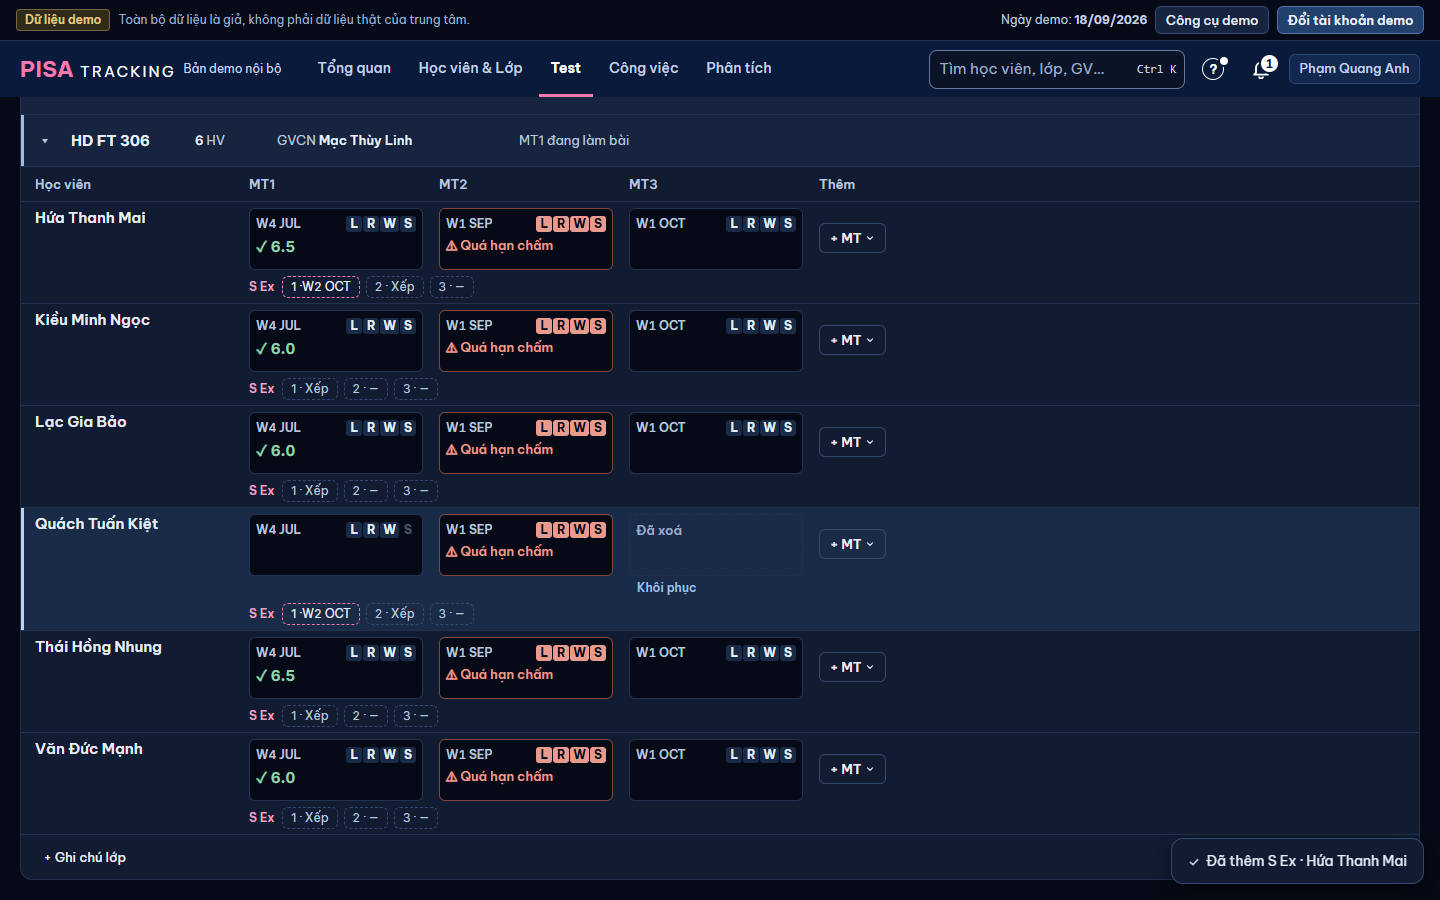
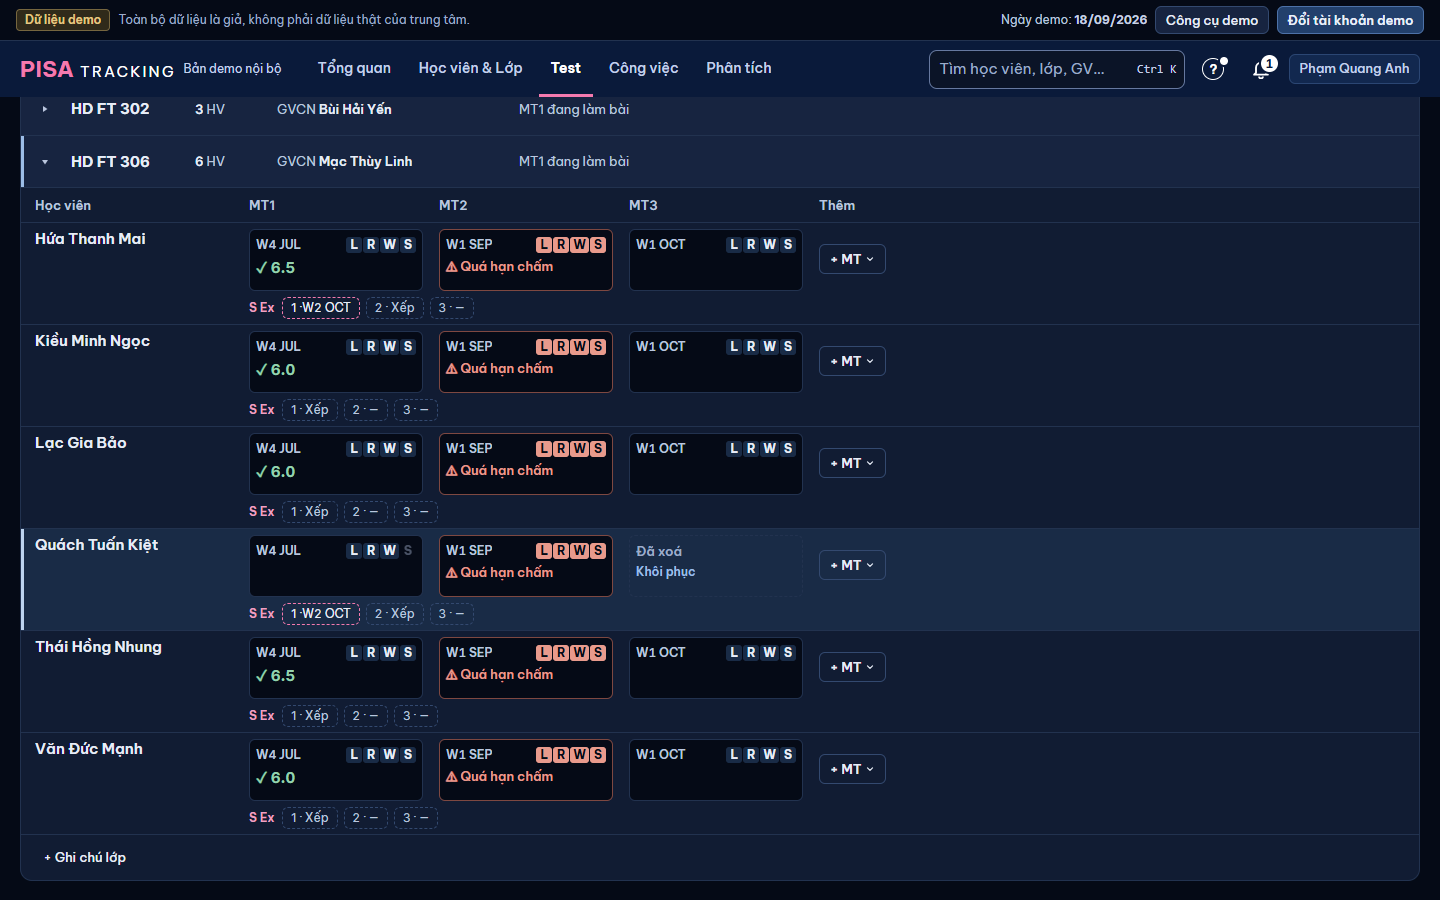
SEX-HANG b: "Khôi phục" nằm trong khung ô MT "Đã xoá" (PTA rà #1078)

diff --git a/web/src/modules/test/keHoach/ChipKyNang.tsx b/web/src/modules/test/keHoach/ChipKyNang.tsx
@@ -99,19 +99,21 @@ export const OTrong = ({ title }: { title?: string }) => <span className="o-kh-k
 
 /**
  * Ô MT ĐÃ XOÁ (chủ SP 06/11 "đừng để nó xóa ẩn hẳn đi"): khung đứt mờ "Đã xoá" — bấm mở hộp như mọi ô (Dời từng môn, ⋯ Khôi phục MT) — và
- * "Khôi phục" bấm ngay dưới ô. GV chỉ xem: ô là link trang lượt, không Khôi phục.
+ * "Khôi phục" bấm ngay, trong khung (dòng dưới). GV chỉ xem: ô là link trang lượt, không Khôi phục.
  */
 export function ODaXoa({ nhan, onMo, href, onKhoiPhuc, busy = false }: {
   nhan: string; onMo: (el: HTMLElement) => void; href?: string | null; onKhoiPhuc?: () => void; busy?: boolean;
 }) {
-  const noi = <span className="o-kh-tt text-faint">{t('Đã xoá')}</span>;
   const doc = t('{dot}, đã xoá', { dot: nhan });
+  /* PTA rà PR 1078: "Khôi phục" nằm TRONG khung, cùng cao ô thường — khung là div; lớp bấm mở hộp (hoặc link GV chỉ xem) phủ cả ô, nút Khôi phục nổi trên. */
+  const phu = 'absolute inset-0 rounded-[6px] border-0 bg-transparent p-0 focus-visible:outline focus-visible:outline-2 focus-visible:outline-offset-1 focus-visible:outline-[color:var(--accent)]';
   return (
-    <div className="flex flex-col items-start">
-      {href ? <Link to={href} aria-label={doc} title={doc} className="o-kh o-kh-huy no-underline">{noi}</Link>
-        : <button type="button" onClick={(e) => onMo(e.currentTarget)} aria-label={doc} title={doc} className="o-kh o-kh-huy">{noi}</button>}
+    <div className="o-kh o-kh-huy relative">
+      {href ? <Link to={href} aria-label={doc} title={doc} className={phu} />
+        : <button type="button" onClick={(e) => onMo(e.currentTarget.parentElement as HTMLElement)} aria-label={doc} title={doc} className={`${phu} cursor-pointer`} />}
+      <span className="o-kh-tt pointer-events-none text-faint">{t('Đã xoá')}</span>
       {onKhoiPhuc && (
-        <button type="button" className="link appearance-none border-0 bg-transparent px-2 pt-1 text-xs font-semibold max-sm:min-h-[44px]" disabled={busy}
+        <button type="button" className="link relative z-[1] justify-self-start appearance-none border-0 bg-transparent p-0 text-xs font-semibold max-sm:min-h-[44px]" disabled={busy}
           aria-label={t('Khôi phục {dot}', { dot: nhan })} onClick={onKhoiPhuc}>{busy ? t('Đang khôi phục…') : t('Khôi phục')}</button>
       )}
     </div>

diff --git a/docs/anh/sex-hang/khop-khac.md b/docs/anh/sex-hang/khop-khac.md
@@ -33,6 +33,10 @@ Dữ liệu demo 18/09: QL Phạm Quang Anh (Hải Dương), lớp HD FT 306.
 
 Không mất thao tác nào. Chip S Ex ở cột "Thêm" bỏ (đã ở hàng S Ex — một chỗ một thứ).
 
+## Sửa kèm (PTA rà #1078)
+
+Ô MT "Đã xoá" (từ #1076): "Khôi phục" rơi ra ngoài khung, lệch xuống dưới → nay nằm TRONG khung (dòng 1 "Đã xoá", dòng 2 "Khôi phục"), ô cao 62 px bằng ô thường (đo); bấm phần còn lại của ô vẫn mở hộp; GV chỉ xem: cả ô là link trang lượt. Ảnh `sau-kht-1440.png` (Quách Tuấn Kiệt, MT3).
+
 ## [XM]
 
 1. Xoá một lượt S Ex: ô về trống (số lượt sau dồn lên), có **Hoàn tác** trong toast — không giữ ô mờ "Đã xoá" như MT (PR a): giữ ô sẽ phải đọc thêm lượt đã xoá. Muốn có thì PR riêng.
